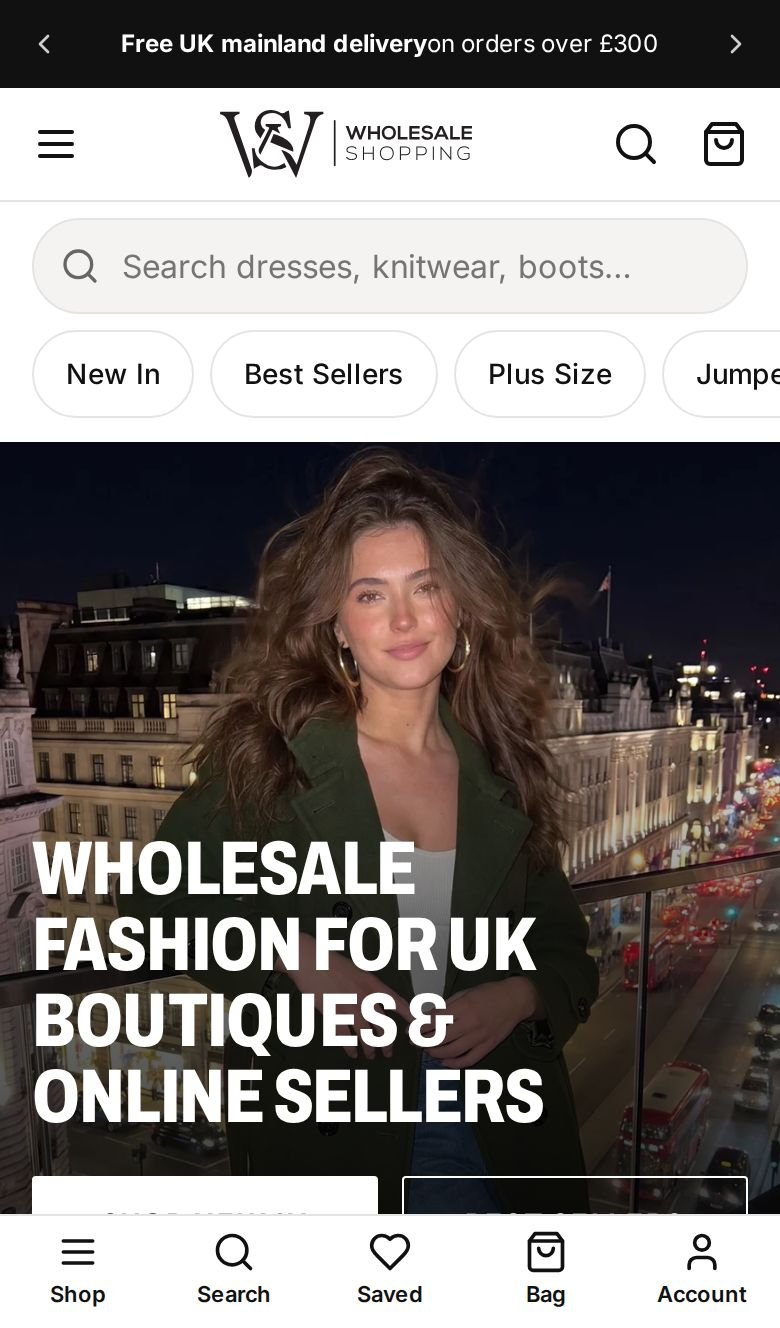
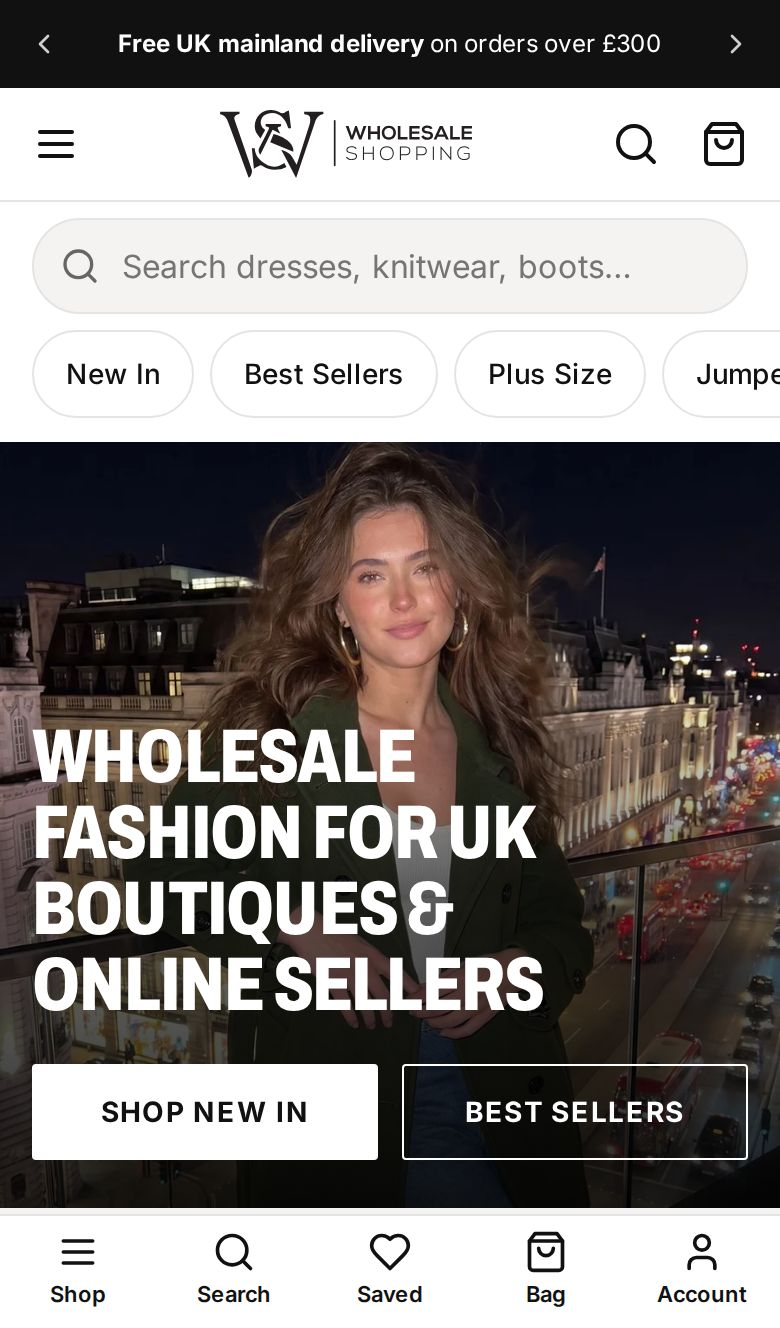
Phase 6: submission drafts, and fix hero buttons hidden by the bottom bar
- docs/: AI Build Notes, 8 CRO decisions (Problem → Change → Benefit),
  "one more day" answer, video outline, before/after comparison images
- Fix: on phones the fixed bottom bar covered the hero buttons; the
  hero now leaves room for it and the test checks against the bar
- Fix: offer bar lost spaces between bold and plain text after the
  44px tap-target change ("deliveryon")
- Plan: hosting moved to Netlify, deployed by the user

Changed region(s): [[0.0, 0.3087, 1.0, 0.9262], [0.1538, 0.0, 0.8308, 0.0617]]

diff --git a/tests/home.spec.js b/tests/home.spec.js
@@ -42,11 +42,22 @@ test.describe('layout', () => {
 
   test('first screen shows the headline and both hero buttons', async ({ page }) => {
     await expect(page.getByRole('heading', { level: 1 })).toHaveText(/wholesale fashion for uk boutiques/i);
-    const visibleHeight = await page.evaluate(() => visualViewport.height);
+    // Visible area ends at the bottom of the screen, or at the fixed bottom bar on phones
+    // (a first version of this test only checked the screen edge and missed the bar covering the buttons)
+    const visibleBottom = await page.evaluate(() => {
+      const bar = document.querySelector('.bottom-nav');
+      const barTop = bar && getComputedStyle(bar).display !== 'none' ? bar.getBoundingClientRect().top : Infinity;
+      return Math.min(visualViewport.height, barTop);
+    });
     for (const name of ['Shop New In', 'Best Sellers']) {
       const box = await page.locator('.hero__actions').getByRole('link', { name }).boundingBox();
-      expect(box.y + box.height, `"${name}" is on the first screen`).toBeLessThanOrEqual(visibleHeight);
+      expect(box.y + box.height, `"${name}" is visible on the first screen`).toBeLessThanOrEqual(visibleBottom);
     }
+  });
+
+  test('offer text keeps its spaces', async ({ page }) => {
+    // A flex layout once swallowed the spaces: "Free UK mainland deliveryon orders over £300"
+    await expect(page.locator('.promo__item').first()).toContainText('Free UK mainland delivery on orders over £300');
   });
 
   test('offer bar shows the real offers', async ({ page }) => {

diff --git a/src/styles/tokens.css b/src/styles/tokens.css
@@ -62,6 +62,7 @@
 
   /* Sizing */
   --tap: 44px; /* minimum tap target */
+  --bottom-bar: calc(56px + env(safe-area-inset-bottom)); /* fixed bar on phones (BottomNav.astro) */
 
   /* Layers */
   --z-header: 50;

diff --git a/docs/cro-decisions.md b/docs/cro-decisions.md
@@ -1,0 +1,112 @@
+# CRO decisions: what changed from the current homepage, and why
+
+> **Draft for you to edit.** Every "Problem" below comes from the live site, checked on 12–13 Oct 2026 (see `notes/real-facts.md` and `notes/screenshots/before/`). Delete this note before submitting.
+
+The brief's question was: *what would make a fashion retailer arriving on this homepage more likely to browse products, find relevant stock and place an order?* Each change below answers part of it.
+
+![First screen on a phone: current site and redesign](images/first-screen-phone.jpg)
+
+![First screen on desktop: current site and redesign](images/first-screen-desktop.jpg)
+
+---
+
+### 1. Say who it's for, above the fold
+- **Problem:**
+  - The hero is four picture-only slides, with the text baked into the images ("The Styles Everyone Loves") and no alt text.
+  - On a phone that text is cut off, and the first screen has no button and no product.
+  - The page's only main heading (H1) sits in a block of SEO text near the bottom.
+- **Change:**
+  - The hero has real text that says who the site is for: *"Wholesale fashion for UK boutiques & online sellers"*. This is now the H1.
+  - A one-line pitch and two buttons, **Shop New In** and **Best Sellers**.
+  - On phones both buttons fit on the first screen above the bottom bar (tested at 360 and 390 px wide).
+- **Expected benefit:** trade buyers know in seconds they're in the right place, and there's an obvious next step, so fewer leave straight away. Search engines and screen readers can now read the message too.
+
+### 2. Fewer, clearer menu choices
+- **Problem:** 12 top menu items mix categories, seasons and offers, in three different text styles.
+- **Change:**
+  - **7 items:** New In, Clothing, Plus Size, Footwear, Accessories, Made in Italy, Sale.
+  - Each has a mega menu that keeps all of the store's real categories, grouped by category, style, country and pack price.
+  - On phones: a menu drawer with department tabs, plus one-tap chips under the search box (New In, Best Sellers, Plus Size, Jumpers…).
+- **Expected benefit:** faster scanning and fewer wrong clicks. Phone buyers reach their category in one tap.
+
+### 3. One clear offer bar instead of competing promotions
+- **Problem:**
+  - The top of the page stacks an app button, a scrolling AW20 ticker, a currency selector, and a strip alternating "free delivery" and "newsletter" messages (on a phone the two overlapped in our screenshot).
+  - A Klarna ticker sits further down, and free delivery is announced twice.
+- **Change:**
+  - **One offer bar** with three real offers: free UK delivery over £300, 20% off Autumn/Winter with AW20, and pay later with Klarna.
+  - Desktop shows all three. Phones rotate them slowly, pause on touch, and stop for visitors who switch off motion.
+  - Seasonal offers become two photo banners with live text.
+- **Expected benefit:** offers get noticed and understood, and there's less noise competing with the products.
+
+### 4. Show prices the way resellers compare them
+- **Problem:**
+  - Product cards show confusing ranges such as *"£29.25 – £29.25 (Pack of 3 – Pack of 3)"*.
+  - The "Under £4.99 … £19.99" collections filter by **pack** price, but nothing says so.
+  - VAT isn't mentioned on the storefront, although the T&Cs say prices exclude VAT.
+- **Change:**
+  - Cards lead with the **price per piece** ("From £17.75 per piece"), then the pack ("Pack of 3 · £53.25"), the number of colours, and badges (New, Made in Italy, Plus Size).
+  - Price tiles say **"Packs under £X"**.
+  - "Prices per piece, excluding VAT" appears by the product row and in the bag.
+- **Expected benefit:** buyers can compare margins at a glance and trust the numbers. More product views turn into adds.
+
+![Product cards and Quick Add on a phone](images/phone-quick-add.jpg)
+
+### 5. More products, sooner
+- **Problem:** the homepage shows only 4 "Autumn Picks" and 20 footwear products. There's no New In or Best Sellers row, and no product on the first screen.
+- **Change:**
+  - Category tiles with real product photos.
+  - A tabbed **"Shop the latest"** row: New In, Best Sellers, Plus Size, Footwear and Made in Italy, 12 products each, swipeable on phones.
+  - Search shows matching products as you type.
+- **Expected benefit:** more products seen per visit, and buyers find relevant stock without leaving the homepage.
+
+### 6. Add to the bag from the homepage (Quick Add)
+- **Problem:** every product means opening its page, choosing colour and pack there, and coming back.
+- **Change:**
+  - **Quick Add** on every card: choose colour, pack size and number of packs in a bottom sheet on phones or a window on desktop.
+  - It opens on the best-value pack in stock and shows the total.
+  - On phones the Add button stays pinned at the bottom.
+- **Expected benefit:** much faster ordering of many products, which is how wholesale buyers shop, so more items end up in each order.
+
+### 7. No surprises at checkout: the £100 minimum and £300 free delivery
+- **Problem:**
+  - The store blocks checkout under £100, but only says so on the cart page.
+  - Nothing encourages buyers towards free delivery at £300; below that it costs £9.99–£12.99.
+- **Change:**
+  - The bag shows a progress bar with two milestones, £100 minimum and £300 free delivery. The message changes as the bag grows: *"Add £46.75 to reach the £100 minimum order"* → *"Add £X for free UK delivery"* → *"Free UK delivery unlocked"*.
+  - Checkout hands the bag to the store's real Shopify checkout.
+- **Expected benefit:** fewer abandoned checkouts at the minimum, and bigger orders as buyers top up towards £300.
+
+![The bag on a phone, with the £100 and £300 milestones](images/phone-bag-progress.jpg)
+
+### 8. Put trust where the decision is made
+- **Problem:**
+  - Trustpilot appears only in the footer, and the site quotes different review numbers (178 in its structured data, "1,300+" elsewhere).
+  - Same-day dispatch, a strong benefit for traders, isn't on the homepage.
+  - On phones the chat bubble covers the Search button.
+- **Change:**
+  - **A trust strip right under the hero:**
+    - Trustpilot 4.8 "Excellent" from 1,111 reviews
+    - same-day dispatch for orders placed by 2pm, Monday to Friday
+    - free UK delivery over £300
+    - pay later with Klarna within 30 days
+  - Real review quotes further down.
+  - A four-step **"How wholesale ordering works"** section: register → choose packs → check out from £100 → same-day dispatch.
+  - A bottom bar that nothing covers.
+- **Expected benefit:** first-time trade buyers feel safe enough to place a first order.
+
+![Trust strip and categories on desktop](images/desktop-trust-and-categories.jpg)
+
+---
+
+### Also improved
+- **Accessibility:** Lighthouse accessibility 100, every control at least 44 px tall on phones, menus that work with a keyboard, and no animation for visitors who switch motion off.
+- **Speed:** Lighthouse performance 91 on phones and 92 on desktop, with no layout shift, and about 9 KB of JavaScript.
+
+### How I'd prove it
+I'd A/B test the new homepage against the current one, tracking:
+- clicks on the hero buttons
+- product views per visit
+- Quick Add → add-to-bag rate
+- checkout starts
+- average order value and the share of orders over £300

diff --git a/docs/ai-build-notes.md b/docs/ai-build-notes.md
@@ -1,0 +1,86 @@
+# AI Build Notes: WholesaleShopping.co.uk homepage redesign
+
+> **Draft for you to edit.** Claude Code wrote this from `notes/ai-build-log.md`. Before you submit:
+> - Rewrite it in your own words.
+> - Add any other AI tools you used.
+> - Keep only the "What I learned" points that are true for you.
+> - Delete this note.
+
+## Tools used
+
+| Tool | What I used it for |
+|---|---|
+| **Claude Code** (Claude Opus 5.5), an AI coding agent in the terminal | Reading the brief, researching the live store and Fashion Nova, writing the plan, building the site (Astro, JavaScript, CSS), writing tests, reading Lighthouse reports, and drafting these notes from my build log |
+| A **Claude Code helper agent**, run in the background | Collecting real, sourced facts about the store into `notes/real-facts.md`: Trustpilot score, delivery and dispatch times, VAT, minimum order, menus, FAQs |
+| **Playwright** (a test tool Claude drove) | Screenshots of the current site, Fashion Nova and every build step; 55 automated tests at four screen sizes |
+| **Lighthouse** | Speed and accessibility audits |
+
+## My process
+
+1. **Understand the brief.** Claude read the PDF and turned it into checklists (`REQUIREMENTS.md`), with every requirement linked to a step in the plan.
+2. **Research before designing.** Claude downloaded the live homepage, the store's public product data and Fashion Nova's homepage, then listed real problems:
+   - 12 mixed menu items
+   - banners with text baked into images
+   - the page heading buried at the bottom
+   - confusing pack prices
+   - trust signals only in the footer
+
+   And patterns worth borrowing from Fashion Nova: one offer bar, big search, category tiles, a tabbed product row, and Quick Add.
+3. **Plan with checkpoints.** A phased plan (`PLAN.md`) with points where I reviewed the work, plus a `CLAUDE.md` file so every Claude session follows the plan and the rules (real facts only, mobile first).
+4. **Use real data.** A script copies 70 real products (names, pack sizes, per-piece prices, photos) and the helper collected sourced facts. These facts changed the design:
+   - The store blocks checkout under £100, so the bag shows that rule early.
+   - The "Under £X" collections filter by pack price, so those tiles say "Packs under £X".
+5. **Build in small steps.** After each step: screenshots at phone and desktop size, then fix what they showed. At checkpoint 1 I approved the look and asked for the real logo instead of a text one.
+6. **Test and measure.**
+   - Automated tests at four screen sizes.
+   - A link checker for all 148 links.
+   - Lighthouse.
+   - Side-by-side before/after images.
+
+## Prompts and iteration
+
+A few of the prompts that shaped the project (spelling tidied):
+
+1. *"Understand this assessment"* (with the PDF). → A summary of the task, the deliverables and the scoring. Claude pointed out that about 30% of the marks depend on these notes, so I kept a build log from the start.
+2. *"Make an implementation plan first."* → The first answer was research findings and section ideas, not the step-by-step plan I wanted. I asked again: *"Implementation plan."* The second answer was a full plan file: stack, folders, specs with "done when" criteria, tests and risks.
+3. *"Clone this repo … and make an md file so the plan is added, so you can implement according to plan.md or requirements.md."* → `PLAN.md`, `REQUIREMENTS.md` and `CLAUDE.md` in the repo.
+4. *"Yes, commit and push. Use the real logo."* → My feedback at checkpoint 1.
+5. *"Start with the remaining phases"* and later *"No need to deploy, we'll use Netlify."* → Testing and fixing; I chose the hosting myself.
+
+## What went wrong
+
+1. **A wrong assumption about the data.** Claude's product script assumed every product's size option was a pack size ("Pack of 3"). In fact 26 of the 70 products use "Regular / Plus Size". Some of those prices are for a whole pack: one product's address says "pack-of-6" and costs £24. Others are for one piece. The page would have shown wrong per-piece prices.
+2. **The page was wider than the phone.** The newsletter section made the whole page lay out at 421 px on a 390 px phone, so a real phone would show it slightly zoomed out. **Claude's own test missed it**: it compared the page with `innerWidth`, which on phones grows to fit content that's too wide.
+3. **The bottom bar hid the main buttons on phones.** All tests passed, because they only checked the buttons were inside the screen. I found the problem when I made the side-by-side comparison image for these notes. In the same image the offer bar read "deliveryon orders", because a layout change had removed the spaces.
+4. **Slow pieces found by Lighthouse.**
+   - On desktop, the slowest-loading element was the second hero photo. It was set to load lazily although it's on the first screen.
+   - On phones, an 88 KB font file was competing with the hero photo for bandwidth.
+
+## How I fixed it
+
+1. **Never invent a price.** Those 26 products show their price with "Regular & Plus sizes" and no per-piece figure, and the gap is listed as a follow-up.
+2. **The layout and the test.** The grid columns can now shrink (`minmax(0, 1fr)`), and the test compares against the real screen width. Checked at 320, 360, 390, 768 and 1440 px.
+3. **The buttons and the spaces.**
+   - The hero's height now leaves room for the bottom bar, and the test checks against the bar.
+   - The offer text is wrapped so the spaces stay, with a new test that checks the wording.
+4. **Speed.**
+   - Both desktop hero photos now load straight away.
+   - The heading font is cut down to the one style the design uses (88 KB → 8 KB).
+   - Photos come pre-cropped from Shopify's image server.
+
+   Results: Lighthouse desktop performance went from 81 to 92 and phone from 90 to 91, with accessibility 100, best practices 100 and layout shift 0.
+
+## What I learned
+
+- **Measure, don't just look.** Several bugs only showed up in numbers (a page 421 px wide, the slowest-loading element) or in a side-by-side image, not in a quick look at the screen.
+- **A passing test can be wrong.** In my first test run, three of the four kinds of failure were mistakes in the tests. Two real bugs passed tests that measured the wrong thing.
+- **CSS grid items won't shrink below their content** unless the column uses `minmax(0, 1fr)`.
+- **Shopify's image server is very flexible.** It can resize and crop photos through the web address (`&width=…&height=…&crop=top`), and it automatically serves smaller WebP/AVIF files to browsers that support them.
+- **In B2B, the store's real rules shape the design.** The £100 minimum and pack-price filters changed what the page says.
+- **Be specific with AI.** "An implementation plan" got a strategy summary; asking for "a step-by-step plan with files, tasks and tests" got what I needed.
+
+**Results:**
+- 55 automated tests pass at four screen sizes.
+- 146 of 148 links work and none are broken; the other 2 block automated checks and were checked by hand.
+- Lighthouse on phones: performance 91, accessibility 100, best practices 100. On desktop: performance 92, accessibility 100, best practices 100.
+- About 9 KB of JavaScript.

diff --git a/docs/video-outline.md b/docs/video-outline.md
@@ -1,0 +1,23 @@
+# Video walkthrough outline (about 4 minutes)
+
+> **Draft for you to edit.** The brief asks for 3–5 minutes, showing the homepage and explaining the most important decisions: *"focus on why, not just what you built."* Say it in your own words; the lines below are prompts, not a script to read.
+
+**Before recording:**
+- Open the live link (or http://localhost:4321) on desktop.
+- For the phone view, use your phone, or the browser's device mode (Chrome DevTools → toggle device toolbar → iPhone 12/13).
+- Have `docs/images/first-screen-phone.jpg` and `first-screen-desktop.jpg` ready to show.
+- Record with Loom or OBS, and keep it under 5 minutes.
+
+| Time | Show | Say (the *why*) |
+|---|---|---|
+| 0:00–0:20 | The side-by-side desktop image | Who I am and the task. WholesaleShopping sells to boutiques and online sellers, so I adapted Fashion Nova's patterns for trade buyers instead of copying them. |
+| 0:20–1:00 | The phone side-by-side, then the live page on a phone | **Above the fold.** The old hero's text is baked into an image and cut off, with no button and no product. Now the headline says who it's for, and the buttons and one-tap chips are on the first screen. Buyers know they're in the right place and can reach stock in one tap. |
+| 1:00–1:40 | Hover the desktop mega menu, then open the phone menu | **Navigation and offers.** 12 menu items became 7 clear ones without losing any category. One offer bar replaces five competing messages. |
+| 1:40–2:40 | A product card, then Quick Add, add 2 packs, then the bag | **The wholesale flow.** Resellers compare cost per piece, so that leads on every card. Quick Add lets them order many products without leaving the page, and it opens on the best-value pack. The bag shows the store's real £100 minimum and £300 free delivery as a progress bar, so there are no surprises at checkout, and checkout hands over to the real store. |
+| 2:40–3:05 | Scroll: trust strip, banners, "How wholesale ordering works", reviews | **Trust.** Real facts where the decision is made: 4.8 on Trustpilot from 1,111 reviews, same-day dispatch by 2pm, free delivery over £300, Klarna. Plus a four-step guide for first-time trade buyers. |
+| 3:05–3:45 | `notes/ai-build-log.md`, the terminal running `npm test` (55 passed), the Lighthouse report | **How I used AI.** Claude Code researched the live store, planned, built and tested with me at checkpoints. Pick 1–2 examples of what went wrong: the wrong assumption about pack sizes, or the bottom bar hiding the buttons, which a passing test missed and a comparison image caught. Then say how it was fixed. |
+| 3:45–4:05 | `docs/one-more-day.md` | **Next.** Fix the 26 products without a per-piece price, then add analytics and A/B test the changes. |
+
+**Tips:**
+- Talk about the buyer: "a boutique owner on her phone between customers…" works better than "I added a component".
+- If something goes wrong while recording, just mention it. The brief values honesty about what didn't work.

diff --git a/PLAN.md b/PLAN.md
@@ -27,7 +27,7 @@ Build a working, mobile-first homepage concept for WholesaleShopping.co.uk. It t
 | Styling | Plain CSS, mobile-first, with design tokens (CSS variables) | Readable, with consistent spacing and type |
 | Data | A snapshot of real products from the store's public Shopify JSON | Real names, pack prices, photos and variant IDs |
 | Links | Products and collections open the live wholesaleshopping.co.uk pages. Checkout uses a Shopify cart link | Every link works, and the journey ends at the real checkout |
-| Hosting | Vercel (free) | One-command deploy, HTTPS and preview links |
+| Hosting | Netlify, deployed by you (changed from Vercel on 13 Oct) | Build command `npm run build`, publish directory `dist`, Node 22.12 or later |
 | Testing | Playwright, Lighthouse and a real phone | Shows that the interactions work at 4 screen sizes |
 | Indexing | `noindex` meta tag and a small "concept" label in the footer | Avoids duplicate content and confusion with the real site |
 
@@ -307,14 +307,14 @@ wholesaleshopping-homepage-redesign/
 
 ### Phase 5: Deploy (14 Oct, midday)
 - [ ] 5.1 Refresh the product data and make a production build.
-- [ ] 5.2 Deploy to Vercel. You log in once with `! npx vercel login`.
+- [ ] 5.2 You deploy to Netlify: build command `npm run build`, publish directory `dist`, Node 22.12 or later.
 - [ ] 5.3 Test the live link on desktop and on your phone, and re-run Playwright against it.
 
 ### Phase 6: Write-ups and video (14 Oct, afternoon)
-- [ ] 6.1 Draft `docs/ai-build-notes.md` from the log (tools, process, prompts, what went wrong, the fix, what you learned). You rewrite it in your own words.
-- [ ] 6.2 Draft `docs/cro-decisions.md` with 8 Problem → Change → Benefit items and before/after screenshots.
-- [ ] 6.3 Draft the answer to "If you had one more day…".
-- [ ] 6.4 Write a 4-minute video outline. You record it, e.g. with OBS or Loom.
+- [x] 6.1 Draft `docs/ai-build-notes.md` from the log (tools, process, prompts, what went wrong, the fix, what you learned). You rewrite it in your own words.
+- [x] 6.2 Draft `docs/cro-decisions.md` with 8 Problem → Change → Benefit items and before/after screenshots.
+- [x] 6.3 Draft the answer to "If you had one more day…".
+- [x] 6.4 Write a 4-minute video outline. You record it, e.g. with OBS or Loom.
 - [ ] 6.5 Export the docs to PDF, then submit the live link, the video and the docs.
 - [ ] 6.6 Before making the repo public, remove `REQUIREMENTS.md` (it contains NaskSoft's brief) or check with NaskSoft first.
 

diff --git a/notes/ai-build-log.md b/notes/ai-build-log.md
@@ -223,3 +223,21 @@ The raw material for the AI Build Notes (REQUIREMENTS.md D-3). Add an entry afte
 - **Learned:**
   - When a test fails, find out whether the page or the test is wrong. Three of my four failure types were the test.
   - Read the audit details before fixing: the slowest element on desktop wasn't the photo I assumed.
+
+## 14. Phase 6: write-up drafts, and two bugs the comparison image caught (13 Oct)
+- **Prompts:**
+  - *"no need to deploy, we will do it on Netlify, I will do this myself"*: I chose the hosting and deploy it myself.
+  - *"yes"*: start the write-ups.
+- **AI did:**
+  - Drafted `docs/ai-build-notes.md`, `docs/cro-decisions.md` (8 decisions), `docs/one-more-day.md` and `docs/video-outline.md` from this log, `notes/real-facts.md` and `notes/test-results.md`, then checked every number against those files.
+  - Made side-by-side "current site vs redesign" images and feature screenshots in `docs/images/`.
+- **Bug 1 – the bottom bar hid the hero buttons on phones:**
+  - **How it was found:** the side-by-side image for the CRO doc showed the fixed bottom bar covering "Shop New In" and "Best Sellers". All 51 tests had passed, because the first-screen test only checked the buttons were inside the screen.
+  - **Fix:** the hero height now also subtracts the bar (`--bottom-bar` token), and the test checks the buttons against the bar's top edge. Measured: buttons end at 580 px, the bar starts at 607 px (iPhone 13).
+- **Bug 2 – the offer bar lost its spaces:**
+  - **What happened:** "Free UK mainland **deliveryon** orders over £300". When the links became flex boxes (to make them 44 px tall), flex layout dropped the spaces between the bold part and the plain text.
+  - **Fix:** an inner span, plus a new test that checks the exact wording.
+- **Result:** 55 tests pass at 4 sizes.
+- **Learned:**
+  - Making something to show people (the comparison image) was the best test of the day. Look at the whole screen the way a buyer would, not just at what the tests measure.
+  - A fix in one place (bigger tap targets) can break another (the spaces).

diff --git a/docs/one-more-day.md b/docs/one-more-day.md
@@ -1,0 +1,9 @@
+# If I had one more day
+
+> **Draft for you to edit.** The brief asks for "a few sentences". Delete this note before submitting.
+
+First, I'd close the pricing gap. 26 of the 70 products on the homepage are sold as "Regular / Plus Size" rather than "Pack of N", so they show a price without a per-piece figure. I'd confirm with the team how those packs are made up, or read it from the product data, so every card uses the same per-piece language. Accurate prices are what resellers trust most.
+
+Next, I'd make the changes measurable. I'd add analytics events for the hero buttons, Quick Add and the bag milestones, then A/B test the new hero and Quick Add against the current homepage. CRO decisions should be proven with data, not only with reasoning.
+
+If time remained, I'd add a "Buy again" row for logged-in trade customers, because wholesale buyers reorder their best sellers.

diff --git a/README.md b/README.md
@@ -43,3 +43,4 @@ Astro 7 (static HTML), plain JavaScript and plain CSS with design tokens. Playwr
 | `notes/ai-build-log.md` | How AI was used: prompts, what went wrong, how it was fixed |
 | `notes/test-results.md` | Test, link-check and Lighthouse results |
 | `notes/screenshots/` | Before (current site and Fashion Nova) and after screenshots |
+| `docs/` | Submission drafts: AI Build Notes, CRO decisions, "one more day" answer, video outline, comparison images |
